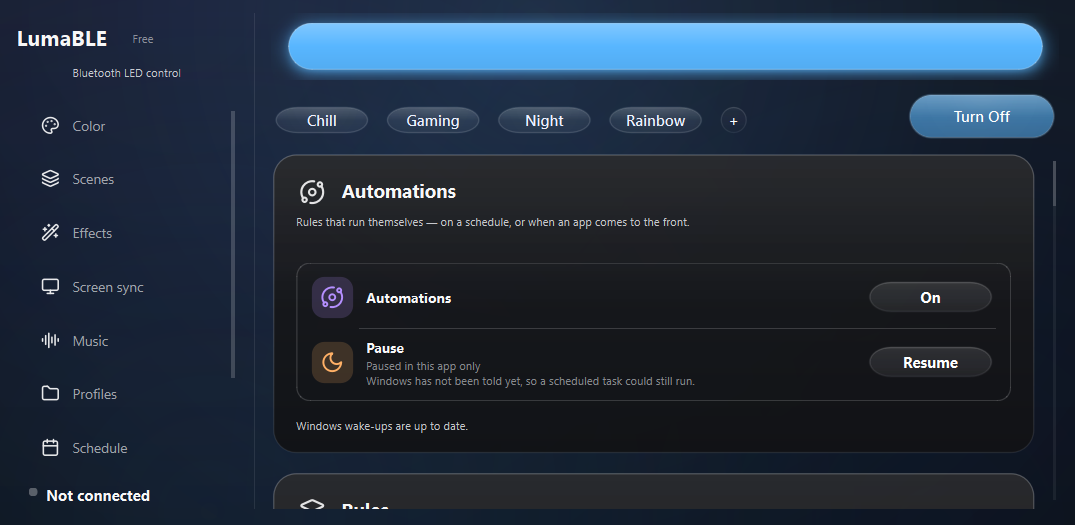
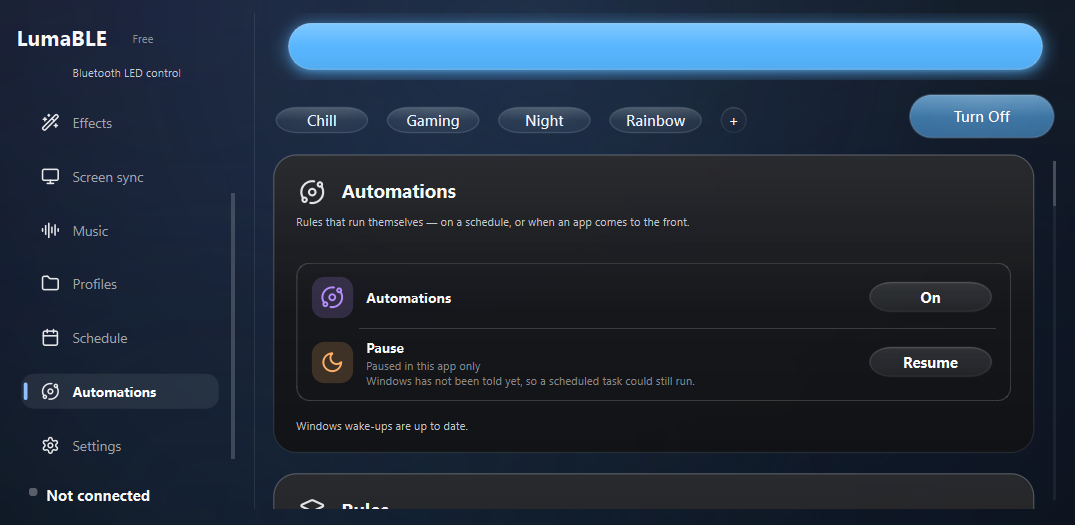
The sidebar follows the current section, and unnamed rules say when they run
Two small things, both visible in the snapshots rather than in a test.

The rail scrolls on a short window, so a section opened from anything other
than its own button — restoring the last section at start-up, the status card
jumping to Settings — left the highlight outside the visible part of the list:
the page said one thing and the sidebar showed another. select_section now
reveals the current item, deferred by a zero timer because on the first pass the
rail has not been laid out and scrolling against zeroed geometry does nothing.
The timer takes the scroll area as its context object, so a window closed within
that turn of the loop cancels it instead of reaching a deleted widget.

Migrated rules have no name — 0.3.5 never asked for one — and the schedule it
came from is a pair carrying the same command at two different times. Titled by
the action alone they both read "Switch the light off", telling apart only in the
small print. An unnamed rule is now titled by what it does and the shortest thing
that makes it different: the time, the app, or the idle span. A rule the user
named keeps only that name; a trigger with nothing shorter than its own sentence
is left alone, since two rules with the same action and that trigger are the same
rule twice.

The geometry check for the wide layout moves to 1280×860, the size the committed
snapshot is actually taken at, so the picture and the assertion describe one
layout instead of two.

diff --git a/tests/test_automations_panel.py b/tests/test_automations_panel.py
@@ -135,9 +135,43 @@ def test_an_unnamed_rule_is_titled_by_what_it_does_and_not_repeated_below() -> N
     headline = rule_headline(rule, _tr)
     detail = rule_detail(rule, _tr)
 
-    assert headline == _tr("automations.action_power_on")
+    assert headline.startswith(_tr("automations.action_power_on"))
     assert headline not in detail, "the row said the same thing twice"
     assert "21:00" in detail
+
+
+def test_two_unnamed_rules_with_the_same_command_are_told_apart_by_their_titles() -> None:
+    """Migrated rules have no name — 0.3.5 never asked for one — and the schedule it
+    came from is a pair of rules carrying the same command at two different times. A
+    title of just the action would put "Switch the light off" in the list twice."""
+    evening = _rule(id="a", action={"type": "set_power", "power": False}, trigger={"kind": "time", "time_at": "23:30"})
+    morning = _rule(id="b", action={"type": "set_power", "power": False}, trigger={"kind": "time", "time_at": "07:15"})
+
+    first, second = rule_headline(evening, _tr), rule_headline(morning, _tr)
+
+    assert first != second
+    assert "23:30" in first and "07:15" in second
+    assert _tr("automations.action_power_off") in first
+
+
+def test_a_rule_the_user_named_keeps_only_that_name() -> None:
+    """They have already said what it is; a qualifier would be the app second-guessing
+    the label its own user chose."""
+    named = _rule(name="Bedtime", trigger={"kind": "time", "time_at": "23:30"})
+
+    assert rule_headline(named, _tr) == "Bedtime"
+
+
+def test_an_app_or_idle_rule_is_qualified_by_what_makes_it_different() -> None:
+    on_app = _rule(trigger={"kind": "app_foreground", "app": "code.exe"})
+    on_idle = _rule(trigger={"kind": "no_input", "minutes": 20})
+    # A trigger with nothing shorter than its own sentence is left alone: two rules
+    # with the same action and this trigger are the same rule twice, not two.
+    on_start = _rule(trigger={"kind": "lumable_start"})
+
+    assert "code.exe" in rule_headline(on_app, _tr)
+    assert "20" in rule_headline(on_idle, _tr)
+    assert rule_headline(on_start, _tr) == _tr("automations.action_power_on")
 
 
 def test_a_named_rule_keeps_its_name_and_the_action_moves_below() -> None:
@@ -503,7 +537,8 @@ def test_the_rule_list_draws_a_row_per_rule(screen) -> None:
 
     assert host.automations_empty_hint.isHidden() is True
     titles = [row.findChildren(QLabel)[0].text() for row in controller._rows]
-    assert titles == ["Evening", _tr("automations.action_power_on")]
+    assert titles == ["Evening", rule_headline(host._automations.rules()[1], _tr)]
+    assert titles[1].startswith(_tr("automations.action_power_on"))
 
 
 def test_an_empty_rule_list_explains_itself(screen) -> None:
@@ -692,6 +727,8 @@ def test_every_string_this_screen_shows_exists_in_every_language() -> None:
         "automations.action_power_off",
         "automations.action_scene",
         "automations.action_scene_missing",
+        "automations.short_idle",
+        "automations.tasks_syncing",
         "automations.tasks_ok",
         "automations.tasks_none",
         "automations.tasks_error",

diff --git a/tests/test_dpi_shell.py b/tests/test_dpi_shell.py
@@ -235,12 +235,49 @@ def test_the_automations_page_scrolls_instead_of_clipping_at_the_minimum_window(
         app.processEvents()
 
 
+def test_the_current_nav_item_is_scrolled_into_view() -> None:
+    """On a short window the rail scrolls, and a section can be opened from something
+    other than its own button — restoring the last section on start-up, or the status
+    card jumping to Settings. The highlight would then sit outside the visible part of
+    the list, so the page said one thing and the sidebar showed another."""
+    app = QApplication.instance() or QApplication([])
+    window = MainWindow()
+    try:
+        window.show()
+        window.resize(WINDOW_MIN_WIDTH, WINDOW_MIN_HEIGHT)
+        window._apply_compact_sidebar()
+        app.processEvents()
+        rail = window.nav_scroll
+        assert rail.verticalScrollBar().maximum() > 0, "this check needs a rail that scrolls"
+
+        # The last item in the list is the one the rail has to move for.
+        last_key = list(window._nav_buttons)[-1]
+        select_section(window, last_key)
+        # The reveal is deferred by a zero timer: on the first pass the rail has not
+        # been laid out, so scrolling immediately would move nothing.
+        app.processEvents()
+        app.processEvents()
+
+        button = window._nav_buttons[last_key]
+        viewport = rail.viewport()
+        top = button.mapTo(viewport, button.rect().topLeft()).y()
+        bottom = button.mapTo(viewport, button.rect().bottomLeft()).y()
+        assert top >= 0, "the current nav item is above the visible part of the rail"
+        assert bottom <= viewport.height(), "the current nav item is below it"
+    finally:
+        window._ble.shutdown()
+        window.close()
+        app.processEvents()
+
+
 def test_the_automations_page_stays_intact_at_a_normal_window_size() -> None:
     app = QApplication.instance() or QApplication([])
     window = MainWindow()
     try:
         window.show()
-        window.resize(1320, 860)
+        # The size the committed snapshot in docs/screenshots was taken at, so the
+        # picture and this check describe the same layout.
+        window.resize(1280, 860)
         select_section(window, "automations")
         _fill_automations(window)
         app.processEvents()

diff --git a/app/automation_ui_controller.py b/app/automation_ui_controller.py
@@ -116,9 +116,37 @@ def action_text(rule: Rule, tr: Any, scene_name: str = "") -> str:
     return tr("automations.action_power_on" if rule.action.power else "automations.action_power_off")
 
 
+def trigger_hint(rule: Rule, tr: Any) -> str:
+    """The shortest thing that tells two rules doing the same job apart.
+
+    "" when the trigger has nothing to offer that is shorter than its own sentence —
+    and for those kinds two rules with the same action are genuinely the same rule
+    twice, so there would be nothing to disambiguate with anyway.
+    """
+    trigger = rule.trigger
+    if trigger.kind == TRIGGER_TIME:
+        return trigger.time_at
+    if trigger.kind == TRIGGER_APP_FOREGROUND:
+        return trigger.app
+    if trigger.kind == TRIGGER_NO_INPUT:
+        return tr("automations.short_idle", minutes=trigger.minutes)
+    return ""
+
+
 def rule_headline(rule: Rule, tr: Any, scene_name: str = "") -> str:
-    """The row's title: the user's name for the rule, or what it does."""
-    return rule.name or action_text(rule, tr, scene_name)
+    """The row's title: the user's name for the rule, or what it does and when.
+
+    Migrated rules have no name — the 0.3.5 schedule never asked for one — and two of
+    them can carry the same command at different times. Titled by the action alone,
+    "Switch the light off" would appear twice with nothing to choose between them but
+    the small print. The qualifier is not added to a rule the user named: they have
+    already said what it is.
+    """
+    if rule.name:
+        return rule.name
+    action = action_text(rule, tr, scene_name)
+    hint = trigger_hint(rule, tr)
+    return f"{action} · {hint}" if hint else action
 
 
 def rule_detail(rule: Rule, tr: Any, scene_name: str = "") -> str:

diff --git a/app/main_layout.py b/app/main_layout.py
@@ -1,6 +1,6 @@
 from __future__ import annotations
 
-from PySide6.QtCore import QSize, Qt
+from PySide6.QtCore import QSize, Qt, QTimer
 from PySide6.QtWidgets import (
     QFrame,
     QHBoxLayout,
@@ -199,6 +199,28 @@ def select_section(host, key: str) -> None:
     preview = getattr(host, "preview", None)
     if preview is not None:
         preview.set_compact(key not in _LIVE_LIGHT_SECTIONS)
+    _reveal_nav_item(host, key)
+
+
+def _reveal_nav_item(host, key: str) -> None:
+    """Scroll the rail so the item that is now current can be seen.
+
+    The rail scrolls on a short window, so a section opened from anywhere other than
+    its own button — restoring the last section on start-up, the status card jumping
+    to Settings — can leave the highlight above or below the visible part of the list.
+    The page would then be the right one while the sidebar showed a different item as
+    current.
+
+    Deferred by a zero timer because on the first pass the rail has not been laid out
+    yet, and scrolling against geometry that is still all zeroes does nothing. The
+    scroll area is passed as the timer's context object, so a window closed in that
+    one turn of the event loop cancels this instead of reaching a deleted widget.
+    """
+    button = host._nav_buttons.get(key)
+    nav_scroll = getattr(host, "nav_scroll", None)
+    if button is None or nav_scroll is None:
+        return
+    QTimer.singleShot(0, nav_scroll, lambda: nav_scroll.ensureWidgetVisible(button))
 
 
 def _on_status_clicked(host) -> None:

diff --git a/docs/screenshots/README.md b/docs/screenshots/README.md
@@ -19,4 +19,6 @@ The automations pair deliberately shows the busiest honest state: five rules acr
 four trigger kinds, the two-line "paused in this app only" row, and the 0.3.5 bridge
 card. The same state is asserted structurally in
 `tests/test_dpi_shell.py::test_the_automations_page_scrolls_instead_of_clipping_at_the_minimum_window`,
-so the tests catch a regression and these show what it should look like.
+so the tests catch a regression and these show what it should look like. The larger
+pair is taken at the same size the geometry check uses, so the picture and the
+assertion describe one layout rather than two.
